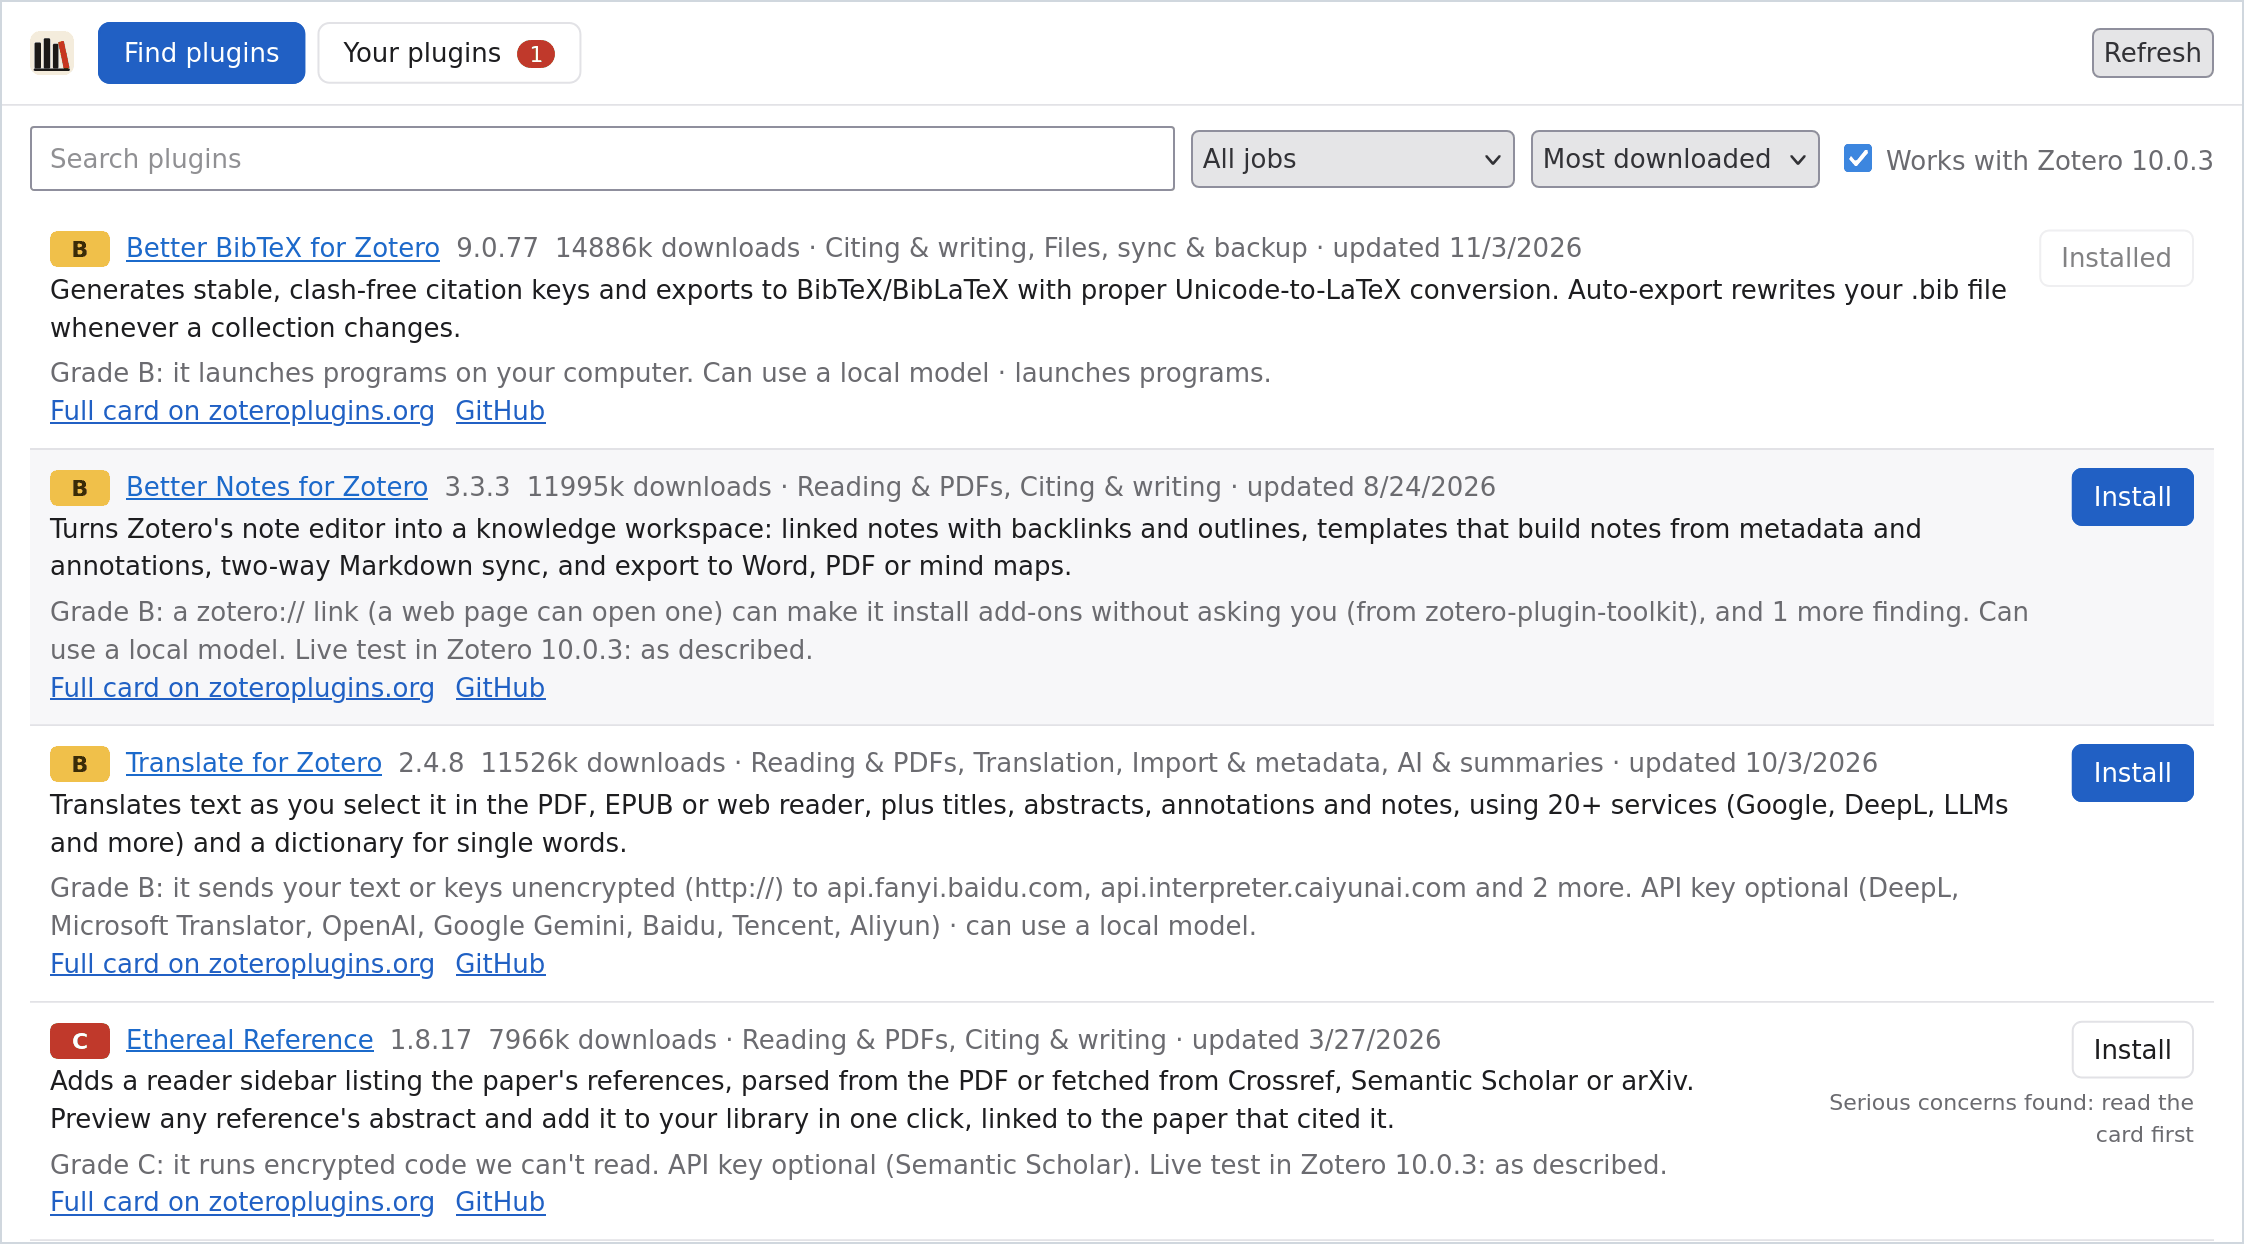
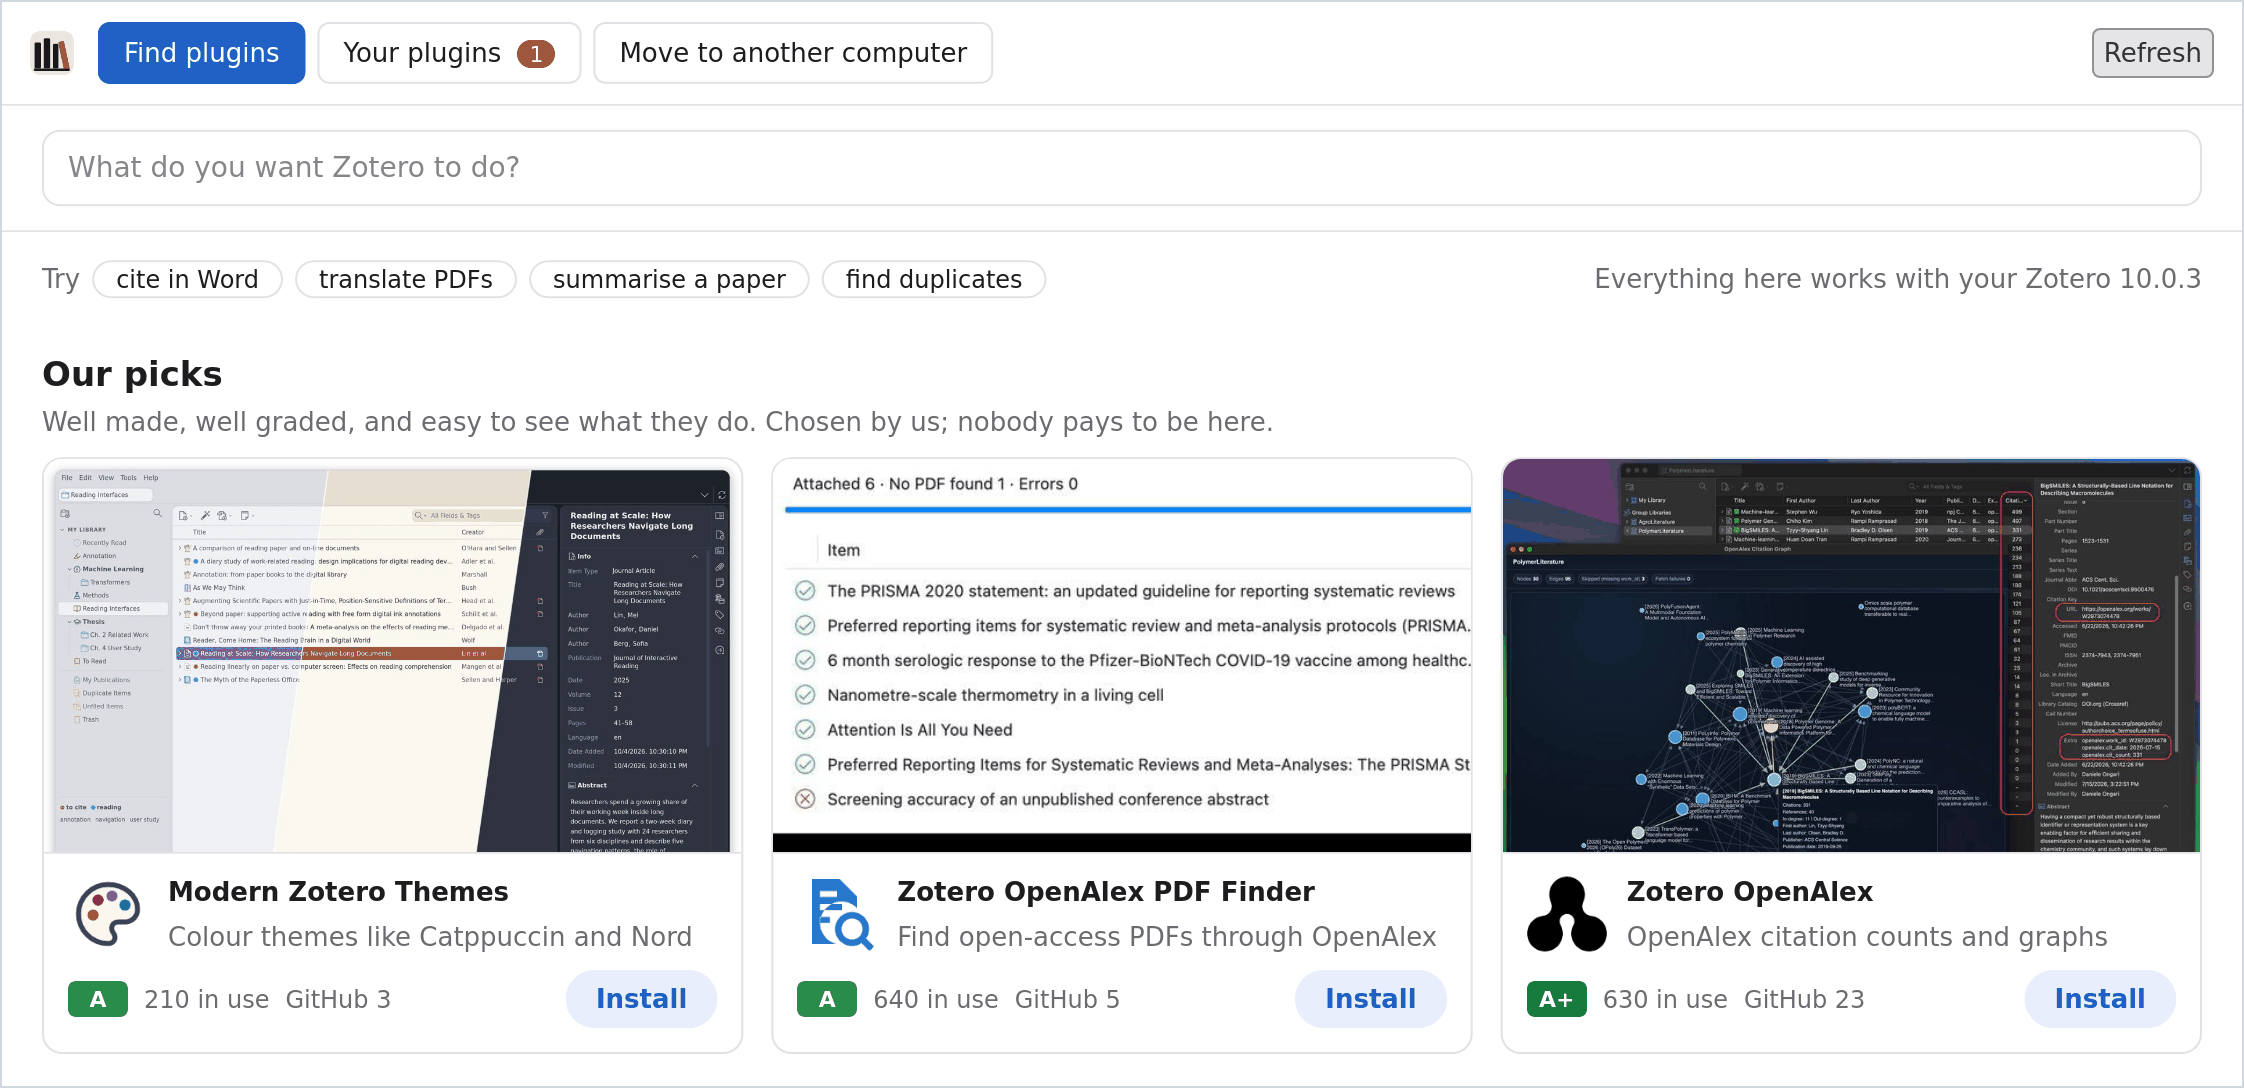
Zotero Atlas 1.3.0
Find plugins opens on Discover (picks, most used, packs, Rising, New, jobs), with plugin pages,
pack pages and one install sheet; 1.2.0's Move to another computer tab ships with it. The
README gains a Move section, and its Find plugins and Your plugins pictures are 1.3.0 in
Zotero 10 (the first-run and Plugins window pictures are unchanged).

diff --git a/README.md b/README.md
@@ -22,13 +22,13 @@ plugins, see what each one's code does, and install in one click.</p>
 </p>
 
 <p align="center"><img src="docs/readme/search-demo.gif" width="880" alt="Searching in Zotero Atlas: each result shows the plugin's grade and the reason for it, and C-graded plugins say to read the card first"></p>
-<p align="center"><sub>The search example from zoteroatlas.com, with real catalogue entries. The screenshots below are Zotero Atlas 1.0 in Zotero 10.</sub></p>
+<p align="center"><sub>The search example from zoteroatlas.com, with real catalogue entries. The screenshots below are Zotero Atlas 1.3 in Zotero 10.</sub></p>
 
 ## What it does
 
 ### Find, and install the file that was checked
 
-<p align="center"><img src="docs/readme/find-plugins.png" width="880" alt="Find plugins in Zotero Atlas: the most downloaded plugins that work with this Zotero, each with its grade, the reason, and an Install button"></p>
+<p align="center"><img src="docs/readme/find-plugins.png" width="880" alt="Find plugins in Zotero Atlas: a search box that asks what you want Zotero to do, then our picks, each with a screenshot, its grade, about how many people use it and an Install button"></p>
 
 - **Find.** Tools → Zotero Atlas opens on the same shelves as zoteroplugins.org: our picks, the
   most used plugins, plugin packs for students and researchers, Rising, New and catching on, and
@@ -82,6 +82,14 @@ plugins, see what each one's code does, and install in one click.</p>
   the Zotero Atlas button asks how it's working (the red dot stays for things that need you). At
   most three plugins at a time, at most once a month, and each plugin only once. No notices, and
   nothing is sent unless you click Post.
+
+### Move to another computer
+
+- **Take your plugins with you.** Save a list of the plugins in this Zotero, with their settings
+  if you want them (API keys and passwords go in only when you tick that), then open the list in
+  Zotero Atlas on the other computer. It shows what it would install, then installs only files
+  the catalogue checked, the same way Install does. The file stays where you save it: Atlas sends
+  nothing about it anywhere.
 
 Every grade comes from the catalogue's published checks: see
 [how plugins are graded](https://zoteroplugins.org/how-we-grade). The plugin itself is listed and
